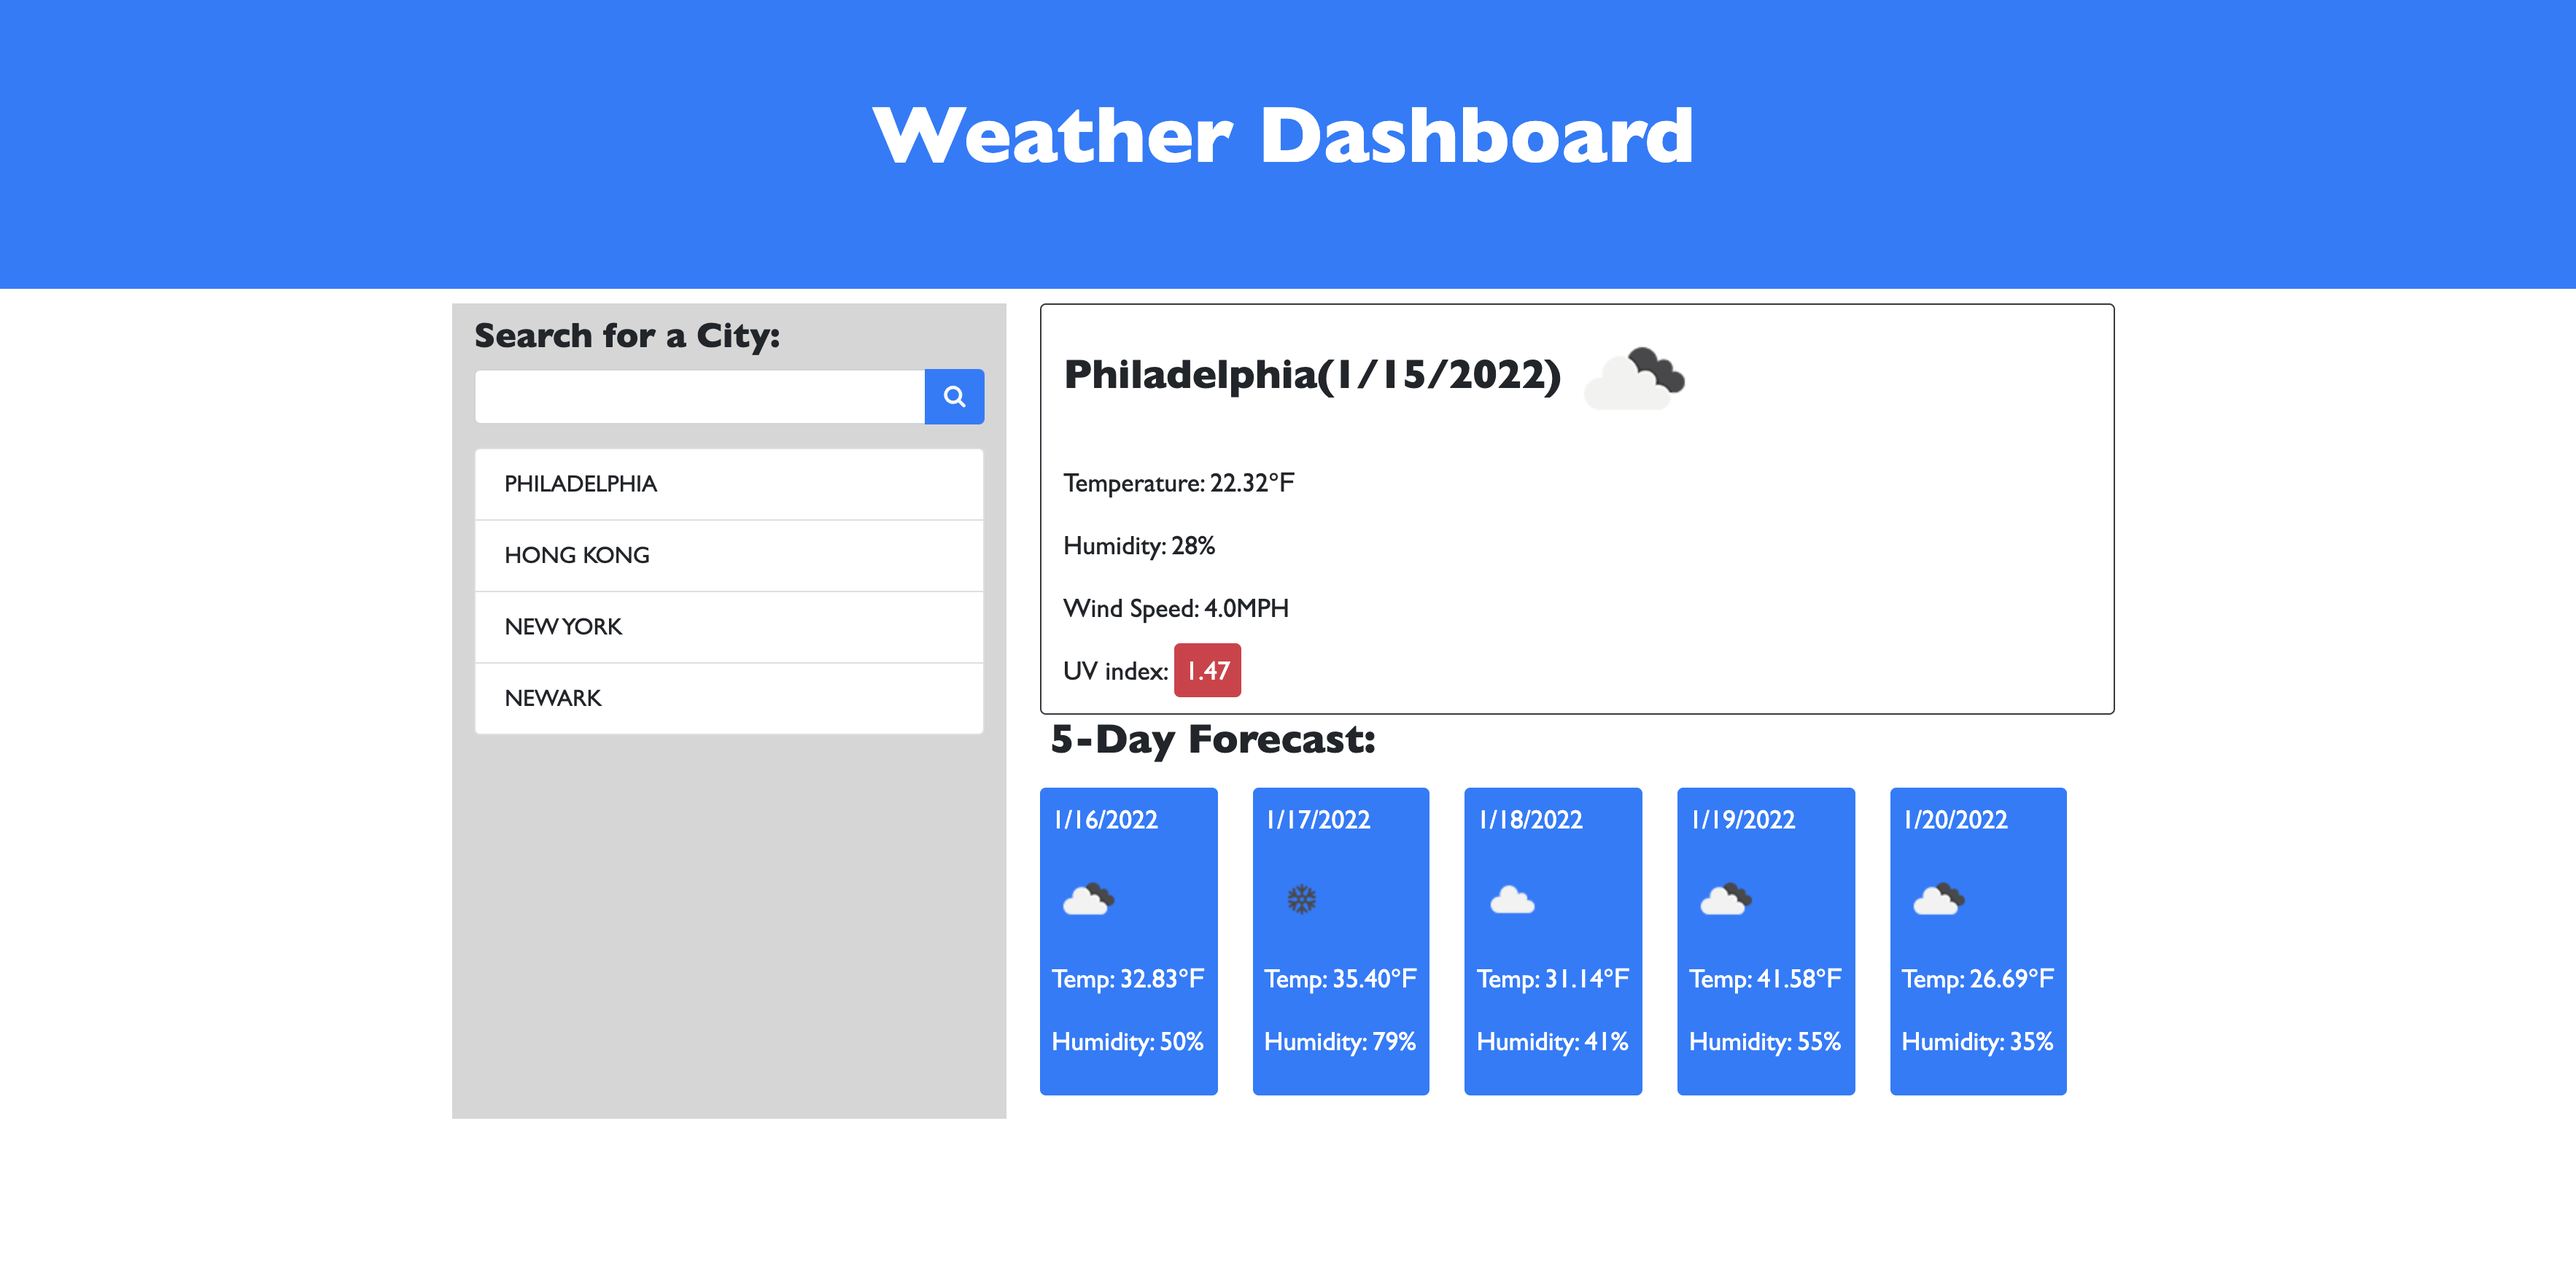
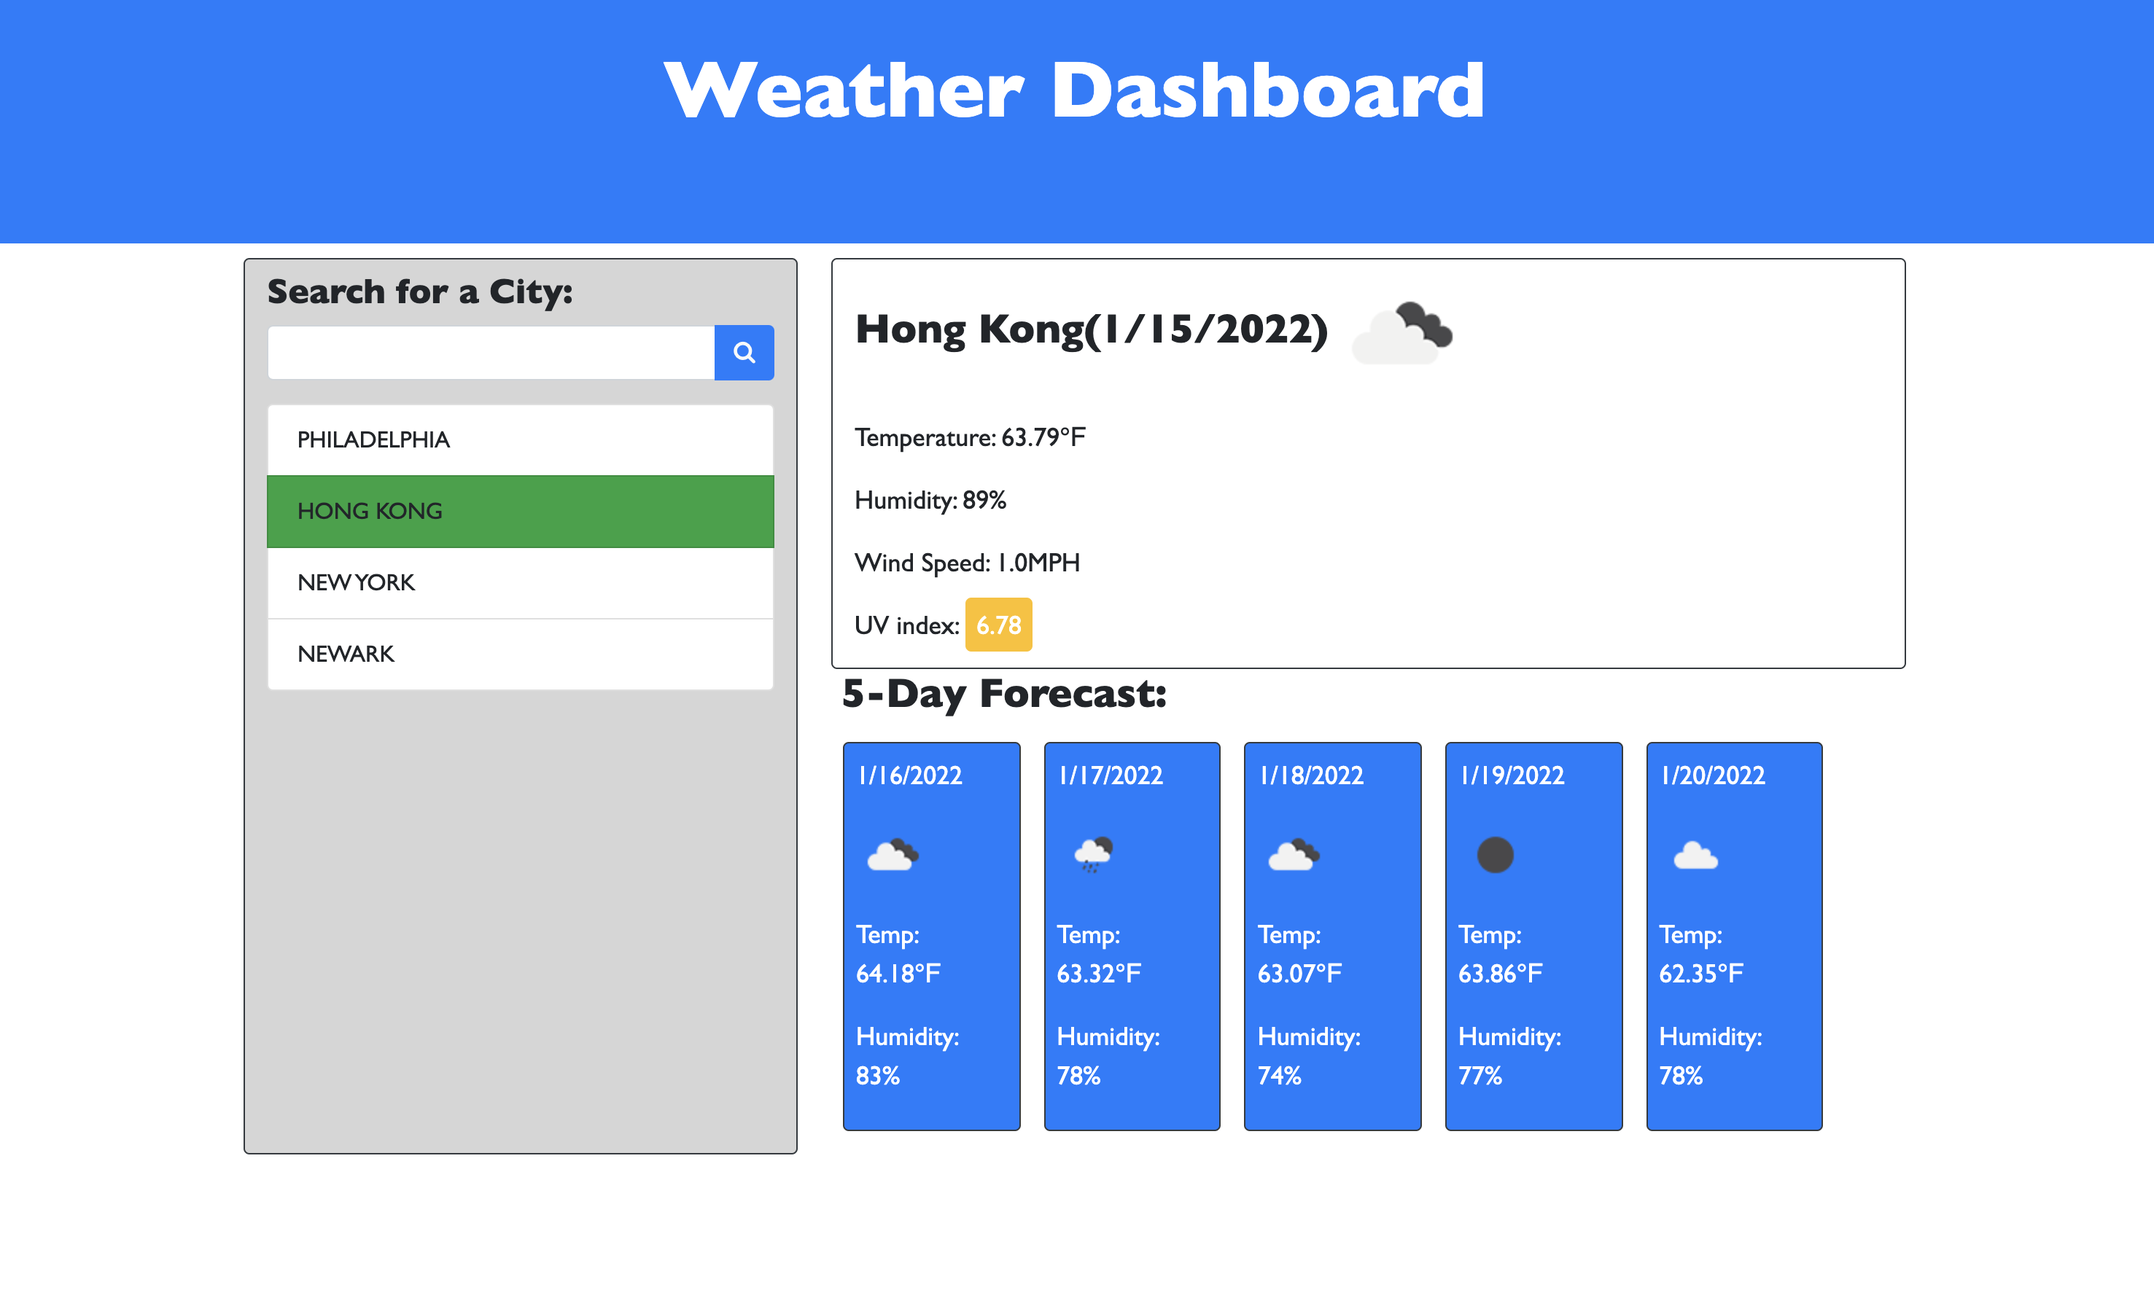
Updated the page style again

Changed region(s): [[0.0, 0.1862, 1.0, 0.9], [0.3114, 0.031, 0.6852, 0.1241]]

diff --git a/index.html b/index.html
@@ -17,7 +17,7 @@
     <div class="container">
   
         <div class="row">
-            <div class="col-sm-4" style="background-color:#d6d6d6;">
+            <div class="col-sm-4 border border-dark rounded" style="background-color:#d6d6d6;">
       
                 <h4 class="pt-2"><strong>Search for a City:</strong></h4>
 
@@ -39,38 +39,38 @@
                         <p>Temperature: <span class="current" id="temperature"></span></p>
                         <p>Humidity: <span class="current" id="humidity"></span></p> 
                         <p>Wind Speed: <span class="current" id="wind-speed"></span></p>
-                        <p>UV index: <span class="current bg-danger rounded py-2 px-2 text-white" id="uv-index"></span></p> 
+                        <p>UV index: <span class="current bg-warning rounded py-2 px-2 text-white" id="uv-index"></span></p> 
                     </div>
                 </div>
         
                 <div class="col-sm-12" id ="future-weather">
                     <h3>5-Day Forecast: </h3>
                     <div class="row text-light">
-                        <div class="col-sm-2 bg-primary forecast text-white ml-2 mb-3 p-2 mt-2 rounded" >
+                        <div class="col-sm-2 bg-primary forecast text-white ml-3 mb-3 p-2 mt-2 border border-dark rounded" >
                             <p id="Date0"></p>
                             <p id="Img0"></p>
                             <p>Temp: <span id="Temp0"></span></p>
                             <p>Humidity: <span id="Humidity0"></span></p>
                         </div>
-                        <div class="col-sm-2 bg-primary forecast text-white ml-4 mb-3 p-2 mt-2 rounded" >
+                        <div class="col-sm-2 bg-primary forecast text-white ml-3 mb-3 p-2 mt-2 border border-dark rounded" >
                             <p id="Date1"></p>
                             <p id="Img1"></p>
                             <p>Temp: <span id="Temp1"></span></p>
                             <p>Humidity: <span id="Humidity1"></span></p>
                         </div>
-                        <div class="col-sm-2 bg-primary forecast text-white ml-4 mb-3 p-2 mt-2 rounded">
+                        <div class="col-sm-2 bg-primary forecast text-white ml-3 mb-3 p-2 mt-2 border border-dark rounded">
                             <p id="Date2"></p>
                             <p id="Img2"></p>
                             <p>Temp: <span id="Temp2"></span></p>
                             <p>Humidity: <span id="Humidity2"></span></p>
                         </div>
-                        <div class="col-sm-2 bg-primary forecast text-white ml-4 mb-3 p-2 mt-2 rounded">
+                        <div class="col-sm-2 bg-primary forecast text-white ml-3 mb-3 p-2 mt-2 border border-dark rounded">
                             <p id="Date3"></p>
                             <p id="Img3"></p>
                             <p>Temp: <span id="Temp3"></span></p>
                             <p>Humidity: <span id="Humidity3"></span></p>
                         </div>
-                        <div class="col-sm-2 bg-primary forecast text-white ml-4 mb-3 p-2 mt-2 rounded" >
+                        <div class="col-sm-2 bg-primary forecast text-white ml-3 mb-3 p-2 mt-2 border border-dark rounded" >
                             <p id="Date4"></p>
                             <p id="Img4"></p>
                             <p>Temp: <span id="Temp4"></span></p>

diff --git a/assets/css/style.css b/assets/css/style.css
@@ -21,5 +21,5 @@ span{
 }
 
 li:hover{
-    background-color: rgb(64, 163, 102);
+    background-color: rgb(0, 163, 63);
 }
